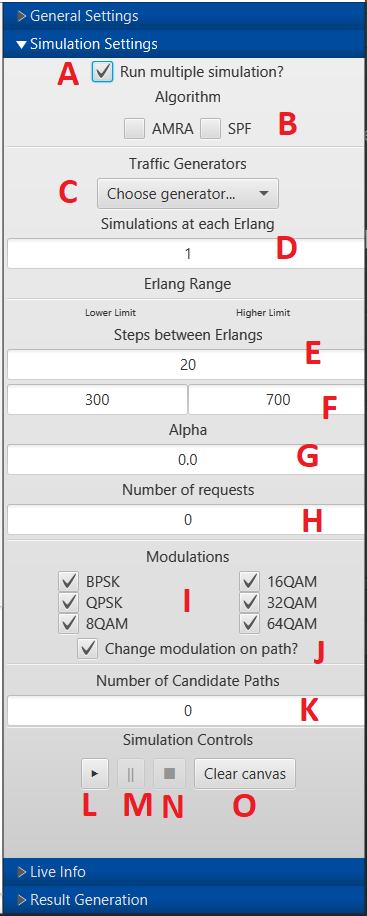
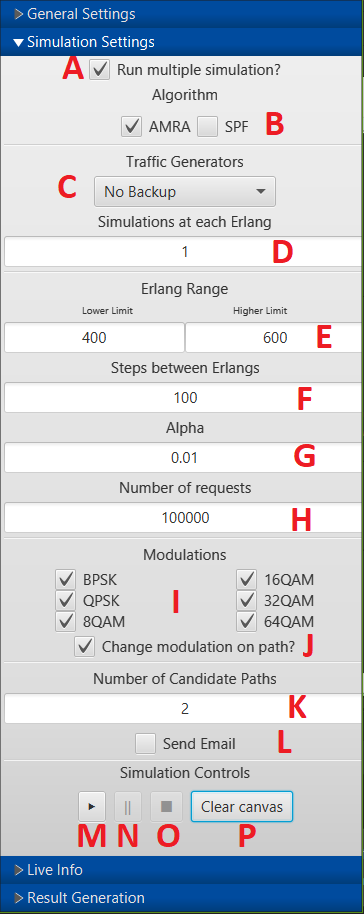
Updated Screenshots
Missed some parameters in some screenshots
Updated section IV.

diff --git a/README.md b/README.md
@@ -145,13 +145,15 @@ Upon setup completion, you will be able to run the simulator with the following 
 
 **J:** Number of candidate paths for each request to reach a destination.
 
-**K:** Begins simulation.
+**K:** Allows you to send a email notification when your simulation is done as well as any errors that occurred.
 
-**L:** Pauses simulation.
+**L:** Begins simulation.
 
-**M:** Cancels running simulation or reloads simulation if not running.
+**M:** Pauses simulation.
 
-**N:** Resets the topology to the initial state (in case the topology becomes bugged).
+**N:** Cancels running simulation or reloads simulation if not running.
+
+**O:** Resets the topology to the initial state (in case the topology becomes bugged).
 
 ## 3b)  Simulation Settings Controller (Multiple Simulations)
 ![image alt text](./docs/image_23.png)
@@ -178,13 +180,15 @@ Upon setup completion, you will be able to run the simulator with the following 
 
 **K:** Number of candidate paths for each request to reach a destination.
 
-**L:** Begins simulation.
+**L:** Allows you to send a email notification when your simulation is done as well as any errors that occurred.
 
-**M:** Pauses simulation.
+**M:** Begins simulation.
 
-**N:** Cancels running simulation or reloads simulation if not running.
+**N:** Pauses simulation.
 
-**O:** Resets the topology to the initial state (in case the topology becomes bugged).
+**O:** Cancels running simulation or reloads simulation if not running.
+
+**P:** Resets the topology to the initial state (in case the topology becomes bugged).
 
 
 ## 4) Live Info Pane
